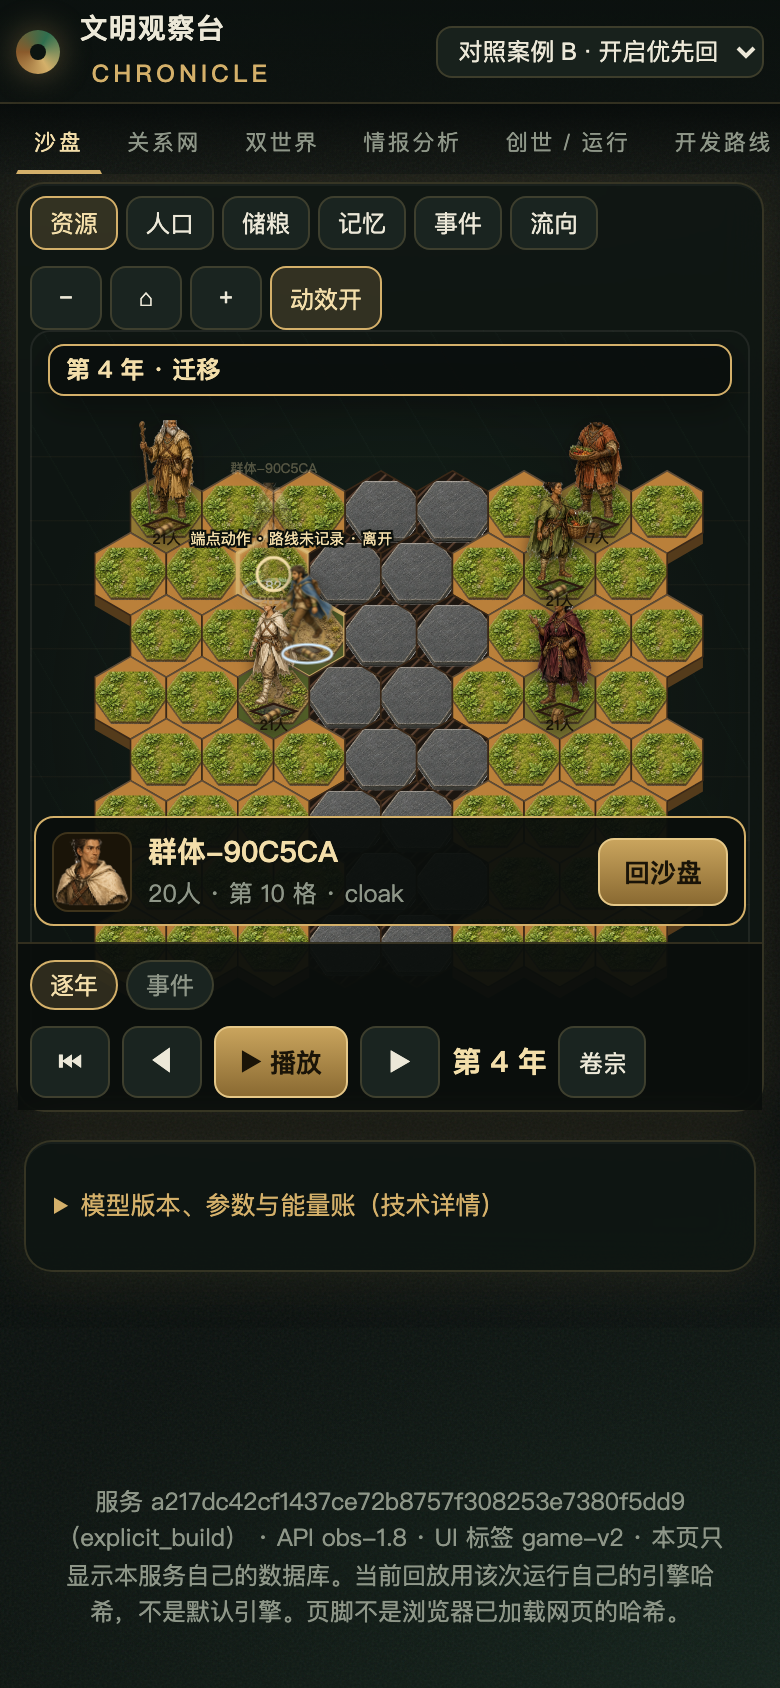
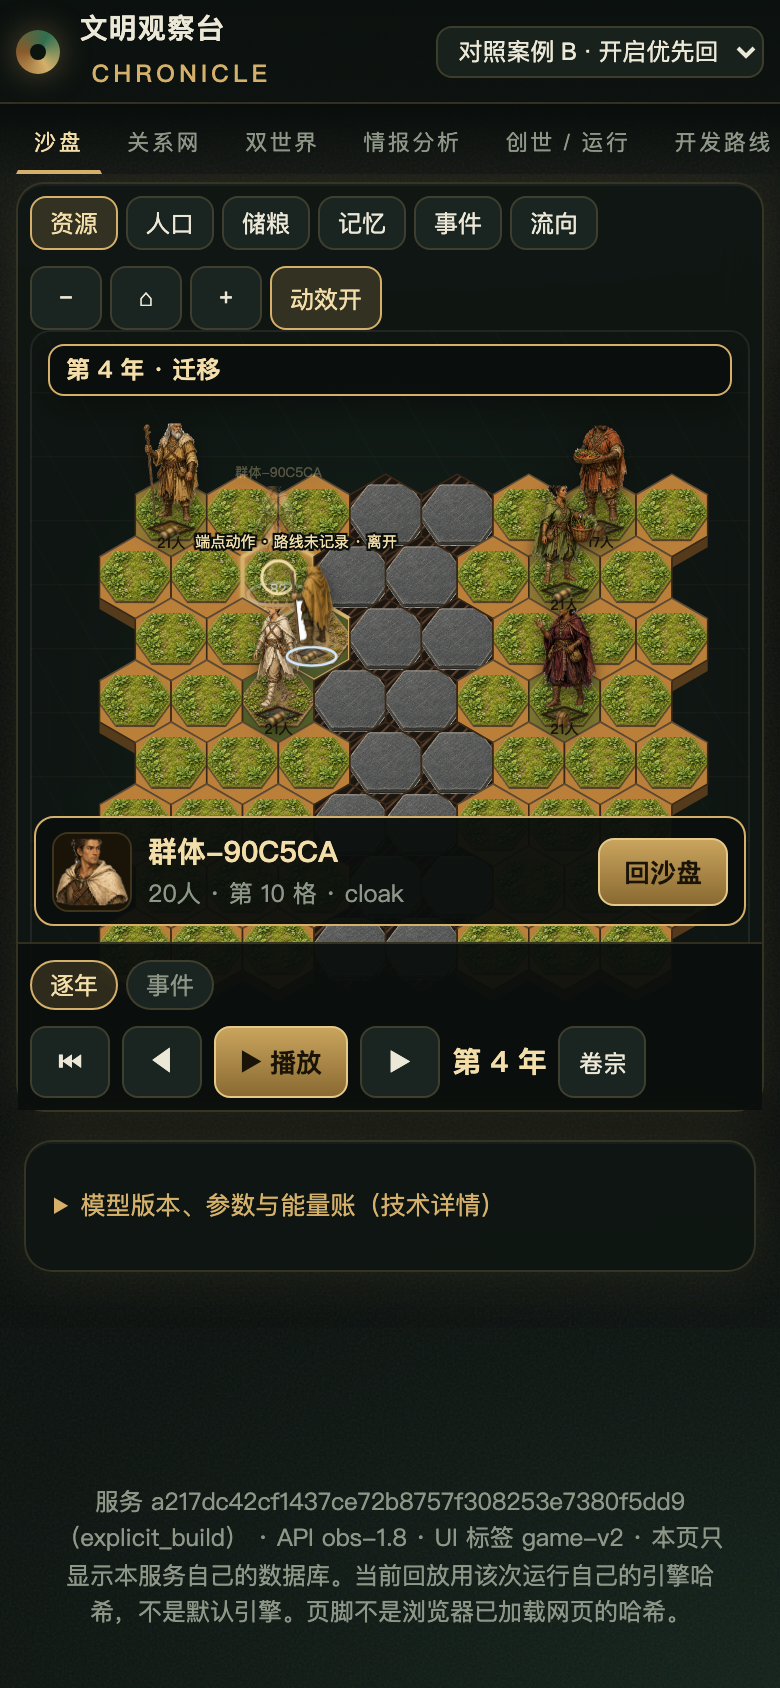
game-v2: O28m extinct fixture and 8-dir migrate travel poses

Changed region(s): [[0.1231, 0.2464, 0.9231, 0.4929], [0.5846, 0.5237, 0.8615, 0.5545], [0.1231, 0.5237, 0.4, 0.5545]]

diff --git a/observer/web/app.js b/observer/web/app.js
@@ -467,6 +467,17 @@ const UnitArt = {
     if (sil === "gather" && (pose === "give" || pose === "talk")) return this.spriteHref("state-give");
     return this.charHref(id);
   },
+  faceName(dx, dy) {
+    const ang = Math.atan2(Number(dy) || 0, Number(dx) || 0);
+    const deg = ((ang * 180 / Math.PI) + 360) % 360;
+    const i = Math.round(deg / 45) % 8;
+    return ["e", "se", "s", "sw", "w", "nw", "n", "ne"][i];
+  },
+  faceHref(face) {
+    const key = String(face || "e");
+    const ok = { e: 1, se: 1, s: 1, sw: 1, w: 1, nw: 1, n: 1, ne: 1 };
+    return this.spriteHref("face-" + (ok[key] ? key : "e"));
+  },
   luma(hex) {
     const h = String(hex || "").replace("#", "");
     if (h.length < 6) return 0;
@@ -598,7 +609,8 @@ const UnitArt = {
     const pose = opts.pose || (on ? "select" : "idle");
     const v = this.variant(b && b.id);
     const ghost = opts.ghost ? " unit-ghost" : "";
-    const facing = opts.facing === "left" ? -1 : 1;
+    const face = opts.face ? String(opts.face) : "";
+    const facing = (!face && opts.facing === "left") ? -1 : 1;
     const name = (b && b.name) || "群体";
     const size = (b && b.size) != null ? b.size : "";
     const bid = b && b.id != null ? String(b.id) : "";
@@ -610,18 +622,24 @@ const UnitArt = {
     const prop = `<image class="unit-prop-art" href="${this.spriteHref(v % 2 ? "prop-pack" : "prop-bedroll")}" x="-7" y="10" width="12" height="9" preserveAspectRatio="xMidYMid meet" pointer-events="none"/>`;
     const spr = 'x="-20" y="-46" width="40" height="56" preserveAspectRatio="xMidYMax meet"';
     let body;
-    if (pose === "walk") {
+    if (face) {
+      body = `<g class="unit-body unit-${esc(pose)}" data-walk="approx-poses">
+        <image class="unit-sprite unit-head unit-tunic" href="${this.faceHref(face)}" ${spr}/>
+      </g>`;
+    } else if (pose === "walk") {
       body = `<g class="unit-body unit-walk" data-walk="approx-poses">
         <image class="unit-sprite unit-walk-a unit-head unit-tunic" href="${this.spriteHref("walk-a")}" ${spr}/>
         <image class="unit-sprite unit-walk-b" href="${this.spriteHref("walk-b")}" ${spr}/>
+        <image class="unit-sprite unit-walk-c" href="${this.spriteHref("walk-c")}" ${spr}/>
+        <image class="unit-sprite unit-walk-d" href="${this.spriteHref("walk-d")}" ${spr}/>
       </g>`;
     } else {
       body = `<g class="unit-body unit-${esc(pose)}">
         <image class="unit-sprite unit-head unit-tunic" href="${this.poseHref(b && b.id, pose)}" ${spr}/>
       </g>`;
     }
-    return `<g class="band unit${on ? " selected" : ""}${ghost}" data-band="${esc(bid)}" data-unit="group-rep" data-party="${nParty}" data-silhouette="${sil}" data-pose="${esc(pose)}" data-art="sprite" data-cell="${esc(cell)}" transform="translate(${Number(x).toFixed(1)},${Number(y).toFixed(1)}) scale(${(sc * facing).toFixed(3)},${sc.toFixed(3)})">
-      <title>${esc(name)} · 群体代表（${sil}）· ${size}人。这是群体的可视替身，不是独立个人生平。行走为两帧近似姿势加程序摆动，不是已验证循环。</title>
+    return `<g class="band unit${on ? " selected" : ""}${ghost}" data-band="${esc(bid)}" data-unit="group-rep" data-party="${nParty}" data-silhouette="${sil}" data-pose="${esc(pose)}" data-art="sprite"${face ? ` data-face="${esc(face)}"` : ""} data-cell="${esc(cell)}" transform="translate(${Number(x).toFixed(1)},${Number(y).toFixed(1)}) scale(${(sc * facing).toFixed(3)},${sc.toFixed(3)})">
+      <title>${esc(name)} · 群体代表（${sil}）· ${size}人。这是群体的可视替身，不是独立个人生平。行走为近似姿势加程序摆动，不是已验证循环。迁徙八方向是行路姿态，不是新的群体身份。</title>
       <path class="unit-camp" d="M0,16 L${campRx},12 L0,8 L-${campRx},12 Z" fill="${pal.cloth}" fill-opacity="0.45" stroke="#2a1810" stroke-width="1.1"/>
       ${prop}
       ${ring}
@@ -2696,7 +2714,7 @@ function paintMigrateAction(overlay, ev, plan, reduced) {
   walker.setAttribute("transform", "translate(" + xy[0].toFixed(1) + "," + xy[1].toFixed(1) + ")");
   walker.innerHTML = UnitArt.markup(band, 0, 0, {
     pose: reduced ? "idle" : "walk", selected: true, hit: false, skin: S.skin, showPop: false,
-    facing: b[0] < a[0] ? "left" : "right",
+    face: UnitArt.faceName(b[0] - a[0], b[1] - a[1]),
   });
   overlay.appendChild(walker);
   fxCaption(overlay, (a[0] + b[0]) / 2, Math.min(a[1], b[1]) - 22,

diff --git a/observer/web/style.css b/observer/web/style.css
@@ -247,9 +247,10 @@ button.prior-jump:hover,button.prior-jump:focus{outline:2px solid var(--gold);ba
   .flow-line,.year-display.pulse,.fx-pulse,.fx-token,
   .unit-body.unit-idle,.unit-body.unit-walk,
   .unit-body.unit-walk .unit-walk-a,.unit-body.unit-walk .unit-walk-b,
+  .unit-body.unit-walk .unit-walk-c,.unit-body.unit-walk .unit-walk-d,
   .unit-body.unit-walk .unit-leg-l,.unit-body.unit-walk .unit-leg-r{animation:none}
   .fx-pulse{opacity:1;transform:none}
-  .unit-body.unit-walk .unit-walk-b{opacity:0}
+  .unit-body.unit-walk .unit-walk-b,.unit-body.unit-walk .unit-walk-c,.unit-body.unit-walk .unit-walk-d{opacity:0}
 }
 .ev .src{color:var(--muted);font-size:11.5px;margin-top:2px}
 .ev .when{font-weight:700;margin-right:8px;color:var(--gold);font-variant-numeric:tabular-nums}
@@ -270,12 +271,16 @@ footer{color:var(--muted);font-size:12px;padding:12px 24px 28px;text-align:cente
 .unit-camp{filter:blur(.1px)}
 .unit-body.unit-idle{transform-box:fill-box;transform-origin:center bottom;animation:unit-bob 2.05s ease-in-out infinite}
 .unit-body.unit-walk{transform-box:fill-box;transform-origin:center bottom;animation:unit-bob .42s ease-in-out infinite}
-.unit-body.unit-walk .unit-walk-a{animation:unit-pose-a .48s steps(1) infinite}
-.unit-body.unit-walk .unit-walk-b{animation:unit-pose-b .48s steps(1) infinite}
+.unit-body.unit-walk .unit-walk-a{animation:unit-walk-a .96s steps(1) infinite}
+.unit-body.unit-walk .unit-walk-b{animation:unit-walk-b .96s steps(1) infinite}
+.unit-body.unit-walk .unit-walk-c{animation:unit-walk-c .96s steps(1) infinite}
+.unit-body.unit-walk .unit-walk-d{animation:unit-walk-d .96s steps(1) infinite}
 .unit.selected .unit-ring,.unit.selected .unit-sel-ring{filter:drop-shadow(0 0 4px rgba(243,222,170,.7))}
 @keyframes unit-bob{0%,100%{transform:translate(0,0)}50%{transform:translate(0,-2.2px)}}
-@keyframes unit-pose-a{0%,49%{opacity:1}50%,100%{opacity:0}}
-@keyframes unit-pose-b{0%,49%{opacity:0}50%,100%{opacity:1}}
+@keyframes unit-walk-a{0%,24%{opacity:1}25%,100%{opacity:0}}
+@keyframes unit-walk-b{0%,24%{opacity:0}25%,49%{opacity:1}50%,100%{opacity:0}}
+@keyframes unit-walk-c{0%,49%{opacity:0}50%,74%{opacity:1}75%,100%{opacity:0}}
+@keyframes unit-walk-d{0%,74%{opacity:0}75%,100%{opacity:1}}
 .hex-art{mix-blend-mode:multiply;opacity:.9}
 .hex-art-plain{mix-blend-mode:normal;opacity:1}
 .unit-sprite{pointer-events:none}

diff --git a/observer/run_tests.py b/observer/run_tests.py
@@ -924,18 +924,55 @@ with TestClient(app) as c10:
     check("O28l 截至第 N 年的卷宗里没有 N 年之后的出生 / 分裂 / 消失 / 援助",
           not leak, str(leak[:2]))
 
-    # 消失：全档案里灭绝的群体，截到它还活着的年份时不能写成已消失
+    # 消失：预置 150 年里可能没有灭绝。没有就写一份隔离短记录承重同一条口径，不改预置包。
     gone = [n["id"] for n in full_all["nodes"]
             if band(n["id"]).json().get("extinct_at") is not None]
-    if not gone:
-        uncov("O28m 灭绝年份的截断", "这条预置案例里没有群体消失，前提缺失")
-    else:
+    if gone:
         g = gone[0]
         gy = band(g).json()["extinct_at"]
         early = band(g, gy - 1).json()
         check("O28m 消失那年之前查，卷宗写还活着，不预告消失",
               early["extinct_at"] is None and early["alive_at_year"] is True,
               f"{g} 第 {gy} 年消失")
+    else:
+        EXT = "o28m-extinct"
+        LIVE28 = "9223372036854775783"
+        GONE28 = "18446744073709551557"
+        store.run_dir(EXT).mkdir(parents=True, exist_ok=True)
+
+        def _o28b(bid, cell, size):
+            return {"id": bid, "name": "群体-" + bid[:4], "cell": cell, "size": size, "store": 100}
+
+        def _o28r(t, bands, events):
+            return {"t": t, "stock": [1], "bands": bands, "cum": {}, "year": {},
+                    "agg": {"pop": sum(b["size"] for b in bands)}, "integrity": {},
+                    "events": events}
+
+        o28_years = [
+            _o28r(0, [_o28b(LIVE28, 0, 10), _o28b(GONE28, 1, 4)], []),
+            _o28r(1, [_o28b(LIVE28, 0, 10), _o28b(GONE28, 1, 2)], []),
+            _o28r(2, [_o28b(LIVE28, 0, 10)],
+                  [{"id": "t2-extinct-0", "year": 2, "type": "extinct",
+                    "band": GONE28, "source": "模型日志"}]),
+        ]
+        store.years_path(EXT).write_text(
+            "\n".join(json.dumps(r, ensure_ascii=False, separators=(",", ":"))
+                      for r in o28_years) + "\n",
+            encoding="utf-8")
+        with store.connect() as _c:
+            _c.execute("DELETE FROM runs WHERE run_id=?", (EXT,))
+            _c.execute(
+                "INSERT INTO runs (run_id,label,kind,status,created_at,seed,years,"
+                "sigma_m,move_mort_m,share_m,aid_m,recip_m,engine,arm,years_done) "
+                "VALUES (?,?,'preset','interrupted',?,1,3,0,0,0,0,0,'exp03','memory',3)",
+                (EXT, "O28m 隔离消失记录", time.time()))
+        early = c10.get(f"/api/runs/{EXT}/band/{GONE28}?at_year=1").json()
+        gone_full = c10.get(f"/api/runs/{EXT}/band/{GONE28}").json()
+        check("O28m 消失那年之前查，卷宗写还活着，不预告消失",
+              gone_full.get("extinct_at") == 2
+              and early.get("extinct_at") is None
+              and early.get("alive_at_year") is True,
+              f"{GONE28} 第 2 年消失；隔离记录，预置案例无消失")
 
     # 展示年份：必须来自真实事件，且不晚于截断年
     mem_ok, mem_bad, mem_seen = True, [], 0

diff --git a/observer/web/assets/sprites/extract_dirs.py b/observer/web/assets/sprites/extract_dirs.py
@@ -1,0 +1,23 @@
+"""Extract 03 eight facings and two extra walk poses. Source dir stays read-only."""
+import sys
+from pathlib import Path
+
+sys.path.insert(0, str(Path(__file__).resolve().parent))
+from cut_pack import feet_canvas, open_src, save, split_grid, REPORT
+
+
+def main():
+    dirs_ = split_grid(open_src("03-directions-idle/variant-01.jpg"), 4, 2, 0.05)
+    names = ["face-s", "face-se", "face-e", "face-ne", "face-n", "face-nw", "face-w", "face-sw"]
+    notes = "hooded 8-dir travel pose; not a new band identity"
+    for n, im in zip(names, dirs_):
+        save(feet_canvas(im, 128, 176), n + ".png", notes)
+
+    walks = split_grid(open_src("02-walk-scout/variant-01.jpg"), 4, 2, 0.05)
+    save(feet_canvas(walks[3], 128, 176), "walk-c.png", "approximate walk pose C; not a verified cycle")
+    save(feet_canvas(walks[7], 128, 176), "walk-d.png", "approximate walk pose D; not a verified cycle")
+    print("extra", len(REPORT), "files")
+
+
+if __name__ == "__main__":
+    main()

diff --git a/observer/web/CONTINUOUS-PROGRESS.md b/observer/web/CONTINUOUS-PROGRESS.md
@@ -1,5 +1,12 @@
 # 连续开发进度
 
+## GROK_BUILD_008 检查点
+- O28m：预置无消失时用隔离短记录承重「消失前年卷宗仍写活着」，run_tests **214/0/0 未覆盖**。
+- 03 八方向接到迁徙行路（`data-face`，不是新群体）。walk-c/d 加入近似走姿组，仍不宣称可循环。
+- 试玩仍按用户要求先放：http://127.0.0.1:8788/static/index.html#tab=world&run=preset-exp06-recip1000&t=0
+- tests：run_tests 214/0/0；game-v2-unit 24/0；game-v2-cdp 21/0（V3 face=nw）
+- 8765/8772 未动。
+
 ## GROK_BUILD_007 检查点
 - 闭环本波剩余：390 选中卡片改为贴在播放条上方，不再叠住播放；采集者选中/给予用 15 状态图；选中环改为描边椭圆（原 PNG 内孔是实心白底）。
 - 03 八方向是另一套斗篷人物，不混进六名群体代表。行走仍是两帧近似姿势 + 程序摆动，不是已验证循环。

diff --git a/observer/web/assets/sprites/README.md b/observer/web/assets/sprites/README.md
@@ -13,4 +13,5 @@ White JPG sheets are not used on the map. These PNGs are flood-knocked, cropped,
 - `prop-*` are decorative camp props, not cities or buildings.
 - Event pair images still anchor `e.cell`. Split still has no map locate.
 - `state-wave` / `state-give` only apply when the group representative is the gatherer silhouette. Other bands keep their own idle sprite.
-- `face-east` / `face-west` are a different hooded figure and are not mixed into the six group identities. Walk facing uses a horizontal flip of the two scout poses.
+- Eight `face-*` sprites are a hooded travel pose used only on recorded migrate endpoint motion. They are not a seventh band identity.
+- Extra `walk-c` / `walk-d` frames join walk-a/b as an approximate pose set plus procedural bob. Not a verified loop.
